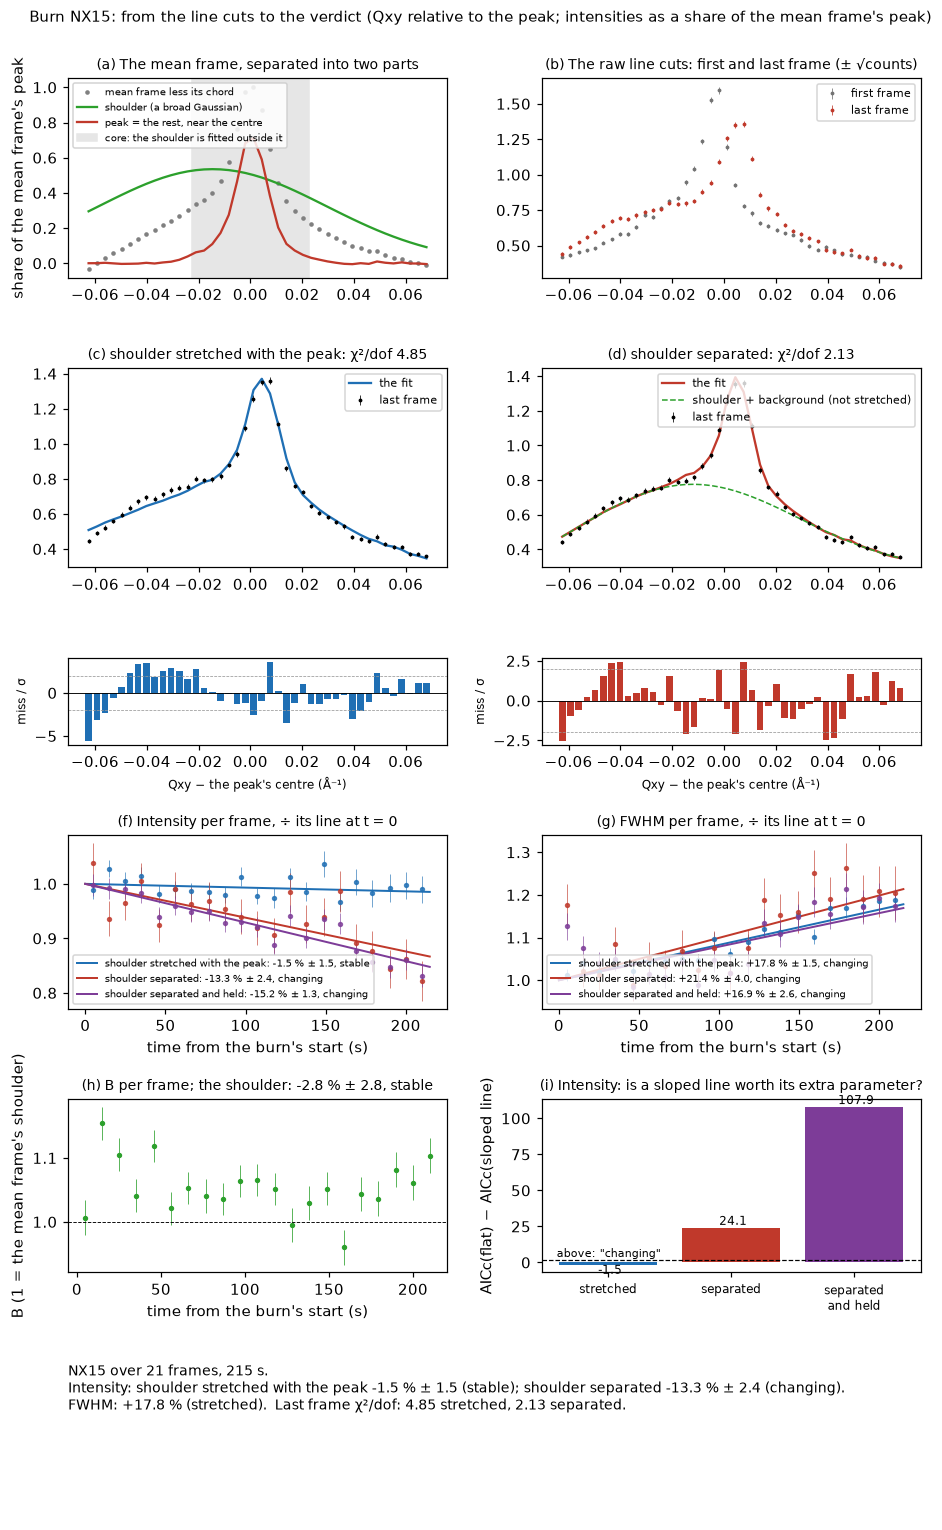
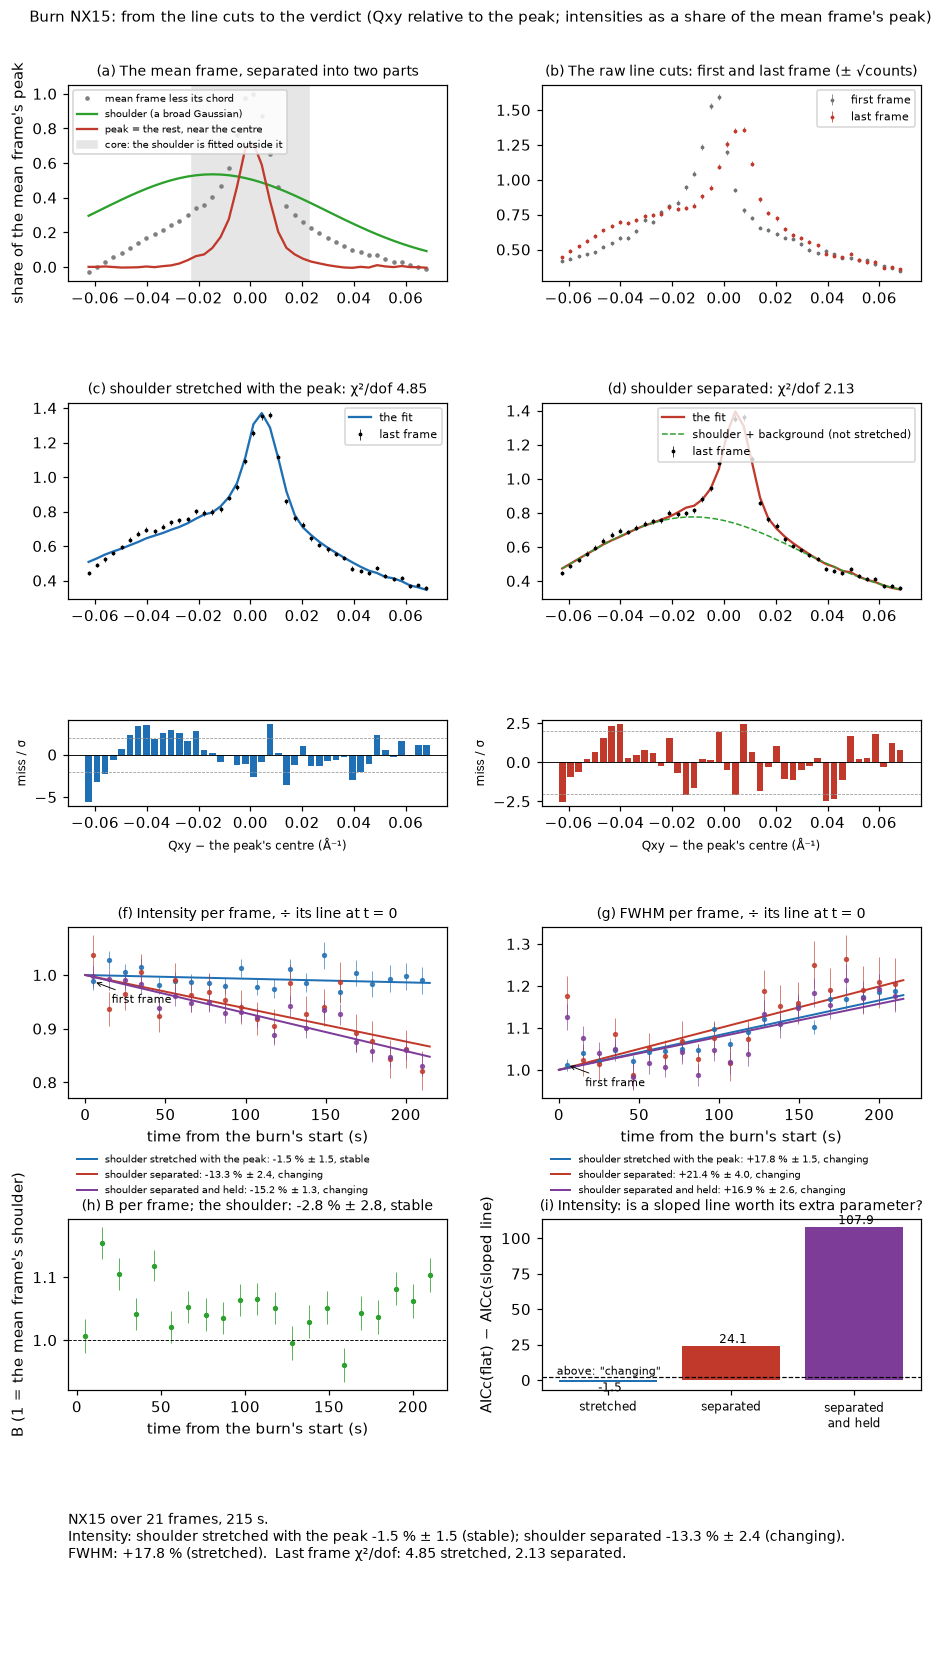
Review fixes (#184): the split_fixed alias, and P4's low first frame
main man's review of e0a3d79:
1. ALIASES had 'separated & held' for 'split_fixed': my prose rename pass
   had rewritten the key, so estimator='split_fixed' raised. The key is
   'split_fixed' again, and the test now pins the set of old names exactly.
   The tool docstring that said ``separated & held`` says ``separated_held``.
2. BC_P4 (f): the lines did not follow the points. The fit was right, the
   figure hid a point. P4's first frame is half as bright as the next three
   (0.50; B 0.45, so the whole frame), and the panel's legend covered it.
   That one point flattens each weighted line. Without it, stretched reads
   -12.9 % +- 0.8 and separated -11.9 % +- 0.9, both "changing", so P4 is not
   a P44 case. Section 8a' is corrected. Over the 118 well-measured burns,
   2 have a first frame below 0.8 of the next three and only P4 below 0.6.
   Leaving frame 0 out changes the verdict disagreements from 15 to 14, so
   question 1's counts stand.
   The chain figure's legends now sit below panels (f) and (g), and the first
   frame is marked. BC_* are redrawn.

diff --git a/tests/tools/burn_shoulder_walkthrough.py b/tests/tools/burn_shoulder_walkthrough.py
@@ -327,8 +327,8 @@ def chain(out, label, rt, rs, rh, note=''):
     sel = (rs.profiles[0][:, 0] >= rs.window[0]) & (rs.profiles[0][:, 0] <= rs.window[1])
     top = float(np.max(ref['shape']))
     nums = dict(frames=len(rs.profiles), duration_s=float(rs.duration()))
-    fig = p.figure(figsize=(10, 15.5))
-    gs = fig.add_gridspec(6, 2, height_ratios=[1.15, 1.15, 0.5, 1, 1, 0.9], hspace=0.55, wspace=0.25)
+    fig = p.figure(figsize=(10, 17))
+    gs = fig.add_gridspec(6, 2, height_ratios=[1.15, 1.15, 0.5, 1, 1, 0.9], hspace=0.75, wspace=0.25)
     # (a) the mean frame and its parts
     a = fig.add_subplot(gs[0, 0])
     a.plot(dx, ref['shape'] / top, '.', color='0.5', ms=4, label='mean frame less its chord')
@@ -389,8 +389,12 @@ def chain(out, label, rt, rs, rh, note=''):
                                            delta_aicc=float(c.delta_constant_linear))
         ax.set_title('(%s) %s per frame, ÷ its line at t = 0' % ('fg'[col], 'Intensity' if q == 'intensity' else 'FWHM'),
                      fontsize=9)
+        c = rt.trends[q]
+        r0 = float(c.fits['linear'](np.array([0.0]))[0])
+        ax.annotate('first frame', (c.t[0], c.y[0] / r0), xytext=(12, -14), textcoords='offset points', fontsize=7,
+                    arrowprops=dict(arrowstyle='->', lw=0.6))
         ax.set_xlabel('time from the burn\'s start (s)')
-        ax.legend(fontsize=6.5, loc='lower left')
+        ax.legend(fontsize=6.5, loc='upper left', bbox_to_anchor=(0, -0.28), frameon=False)
     # (h) B per frame, (i) the verdicts
     ax = fig.add_subplot(gs[4, 0])
     if ref.get('shoulder') is not None:

diff --git a/lss_core/burn.py b/lss_core/burn.py
@@ -209,7 +209,7 @@ SEPARATED_ESTIMATORS = ('separated', 'separated_held')
 SEPARATE_CORE = 1.5           # separate_shoulder: the shoulder is fitted outside ±1.5 FWHM of the peak
 # The names until 2026-11-27 (owner: "too opaque"), still accepted everywhere a name is read, so saved
 # workbooks, preferences and scripts keep working: 'template', 'split', 'split_fixed'.
-ALIASES = {'template': 'stretched', 'split': 'separated', 'separated & held': 'separated_held'}
+ALIASES = {'template': 'stretched', 'split': 'separated', 'split_fixed': 'separated_held'}
 # What the reader and the studies call each estimator.
 ESTIMATOR_NAMES = {'stretched': 'shoulder stretched with the peak', 'separated': 'shoulder separated',
                    'separated_held': 'shoulder separated and held', 'moments': 'moments (legacy)',

diff --git a/tests/tools/burn_shoulder_study.py b/tests/tools/burn_shoulder_study.py
@@ -14,7 +14,7 @@ shoulder. Stretched estimator (the default) fits each frame as the mean
 frame's whole shape, shifted and stretched; the shoulder is stretched with
 the peak, so a broadening peak reads as a gain in intensity (P44). The
 separated estimators (``separated``: the shoulder's amplitude free per frame;
-``separated & held``: held at 1) take the shoulder out of the stretch. Which
+``separated_held``: held at 1) take the shoulder out of the stretch. Which
 reads the truth, on which shoulder, and what does each say about NX?
 
 The truth (``tests/synthetic/burn_profiles.py``, 21 frames of 10 s; each

diff --git a/tests/test_burn_split.py b/tests/test_burn_split.py
@@ -139,6 +139,7 @@ def test_the_old_estimator_names_still_work():
     """Renamed 2026-11-27 (owner: "too opaque"): template -> stretched, split -> separated,
     split_fixed -> separated_held. Saved workbooks, preferences and scripts use the old names,
     so they give the same numbers, and the reference records the new name."""
+    assert set(burn.ALIASES) == {'template', 'split', 'split_fixed'}      # the names until 2026-11-27, exactly
     prof, _ = bp.profiles(change='broaden', seed=4)
     for old, new in burn.ALIASES.items():
         a = burn.measure_gid(prof, estimator=old)

diff --git a/docs/studies/burn_shoulder/summary.md b/docs/studies/burn_shoulder/summary.md
@@ -490,13 +490,12 @@ called "stable". The two models fit equally well (χ²/dof 1.13 and 1.18).
 
 ![BC_P4](chain/BC_P4.png)
 
-**P4** (0.8 years later), a case where the verdicts differ. It is the best-measured of the four: one frame's intensity error is 1.5 %.
-- The stretched reading calls the intensity "changing" (−2.9 % ± 0.9). The separated readings call it
-  "stable" (−1.9 % ± 1.0 and −1.0 % ± 1.0).
-- The FWHM narrows by 6.5 %. Stretching the shoulder with a narrowing peak counts the shoulder's lost
-  width as lost intensity: P44's mechanism, in the narrowing direction.
-- The shoulder itself is steady (+0.3 % ± 6.1). This one burn therefore shows the mechanism of question 1
-  working on a real burn, on a small scale; question 1's counts (below) show it is rare.
+**P4** (0.8 years later): the verdicts differ, but because of one low first frame, not because of the shoulder (corrected 2026-11-27, after main man's review of #184).
+- It is the best-measured of the four: one frame's intensity error is 1.5 %.
+- Its **first frame is half as bright** as the next three (0.50), peak and shoulder alike. B in that frame is 0.45, so the whole frame is low; it is not a change of the sample. Panels (b), (f) and (h) show it, marked "first frame".
+- That one point pulls each weighted line's start down, so the lines run nearly flat while the other 50 frames fall about 12 %. With it, stretched reads −2.9 % ± 0.9 "changing" and separated −1.9 % ± 1.0 "stable". **Without it** (frames 1–50), stretched reads −12.9 % ± 0.8 and separated −11.9 % ± 0.9, **both "changing"**: they agree.
+- So P4 is not an instance of P44. Its FWHM narrows 6.5 %, but the two readings differ by only 1 pp once the first frame is left out.
+- **How common is it?** Of the 118 well-measured burns, 2 have a first frame below 0.8 of the next three, and only P4 below 0.6. Leaving frame 0 out of every burn changes the stretched/separated verdict disagreements from 15 to 14, so question 1's counts stand. The reader keeps frame 0 in every burn (C54 drops it for reflectivity rates). Whether to flag or drop an anomalous first frame is a question for the reader (`sample_data/private/burn_shoulder/first_frame.py` measured this).
 
 
 ### 8b. Which burns were used
